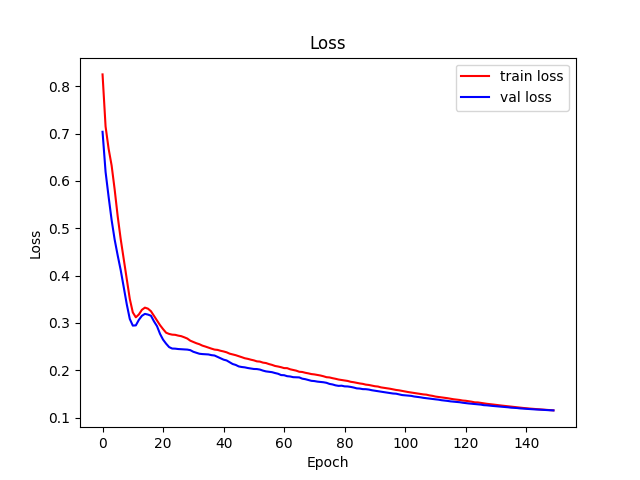
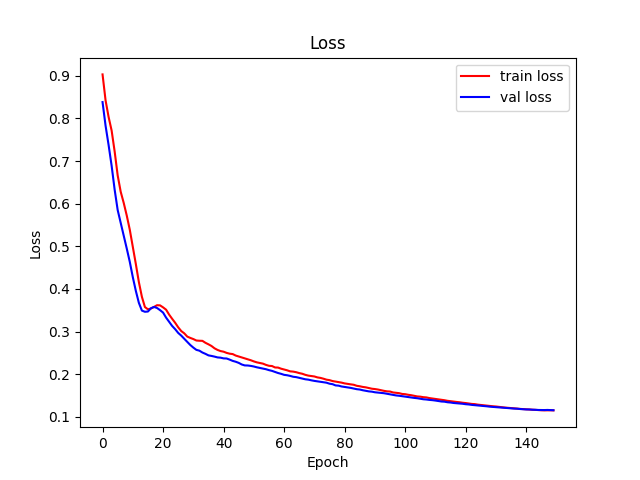
result plots

diff --git a/gnn.py b/gnn.py
@@ -57,10 +57,10 @@ def smape(y_pred, y_test):
         acc += abs((a + b) / ((c + d) / 2))
     return acc / n
 
-if torch.cuda:
-    device = 'cuda'
-else:
-    device = 'cpu'
+# if torch.cuda:
+#     device = 'cuda'
+# else:
+device = 'cpu'
 
 device = "cpu"
 print(f"device: {device}")
@@ -156,7 +156,7 @@ lst_dict = {0: ["neighbor_aver_daily_view", "neighbor_aver_daily_share", "neighb
             }
 epochs = 150
 
-for num in range(16, 17):
+for num in range(14, 15):
     def get_graph1():
         # random edge level link split
         all_edge = []
@@ -273,9 +273,9 @@ for num in range(16, 17):
     np.savetxt(f"plots/gnn_loss_vals_{num}", np.array([train_loss, val_loss]))
 
     pred_test = model(x_test, edge_test)
-    if device == 'cuda':
-        pred_test = pred_test.cpu()
-        y_test = y_test.cpu()
+    # if device == 'cuda':
+    #     pred_test = pred_test.cpu()
+    #     y_test = y_test.cpu()
 
     mse = sq_loss_fn(pred_test, y_test)
     me = abs_loss_fn(pred_test, y_test)
